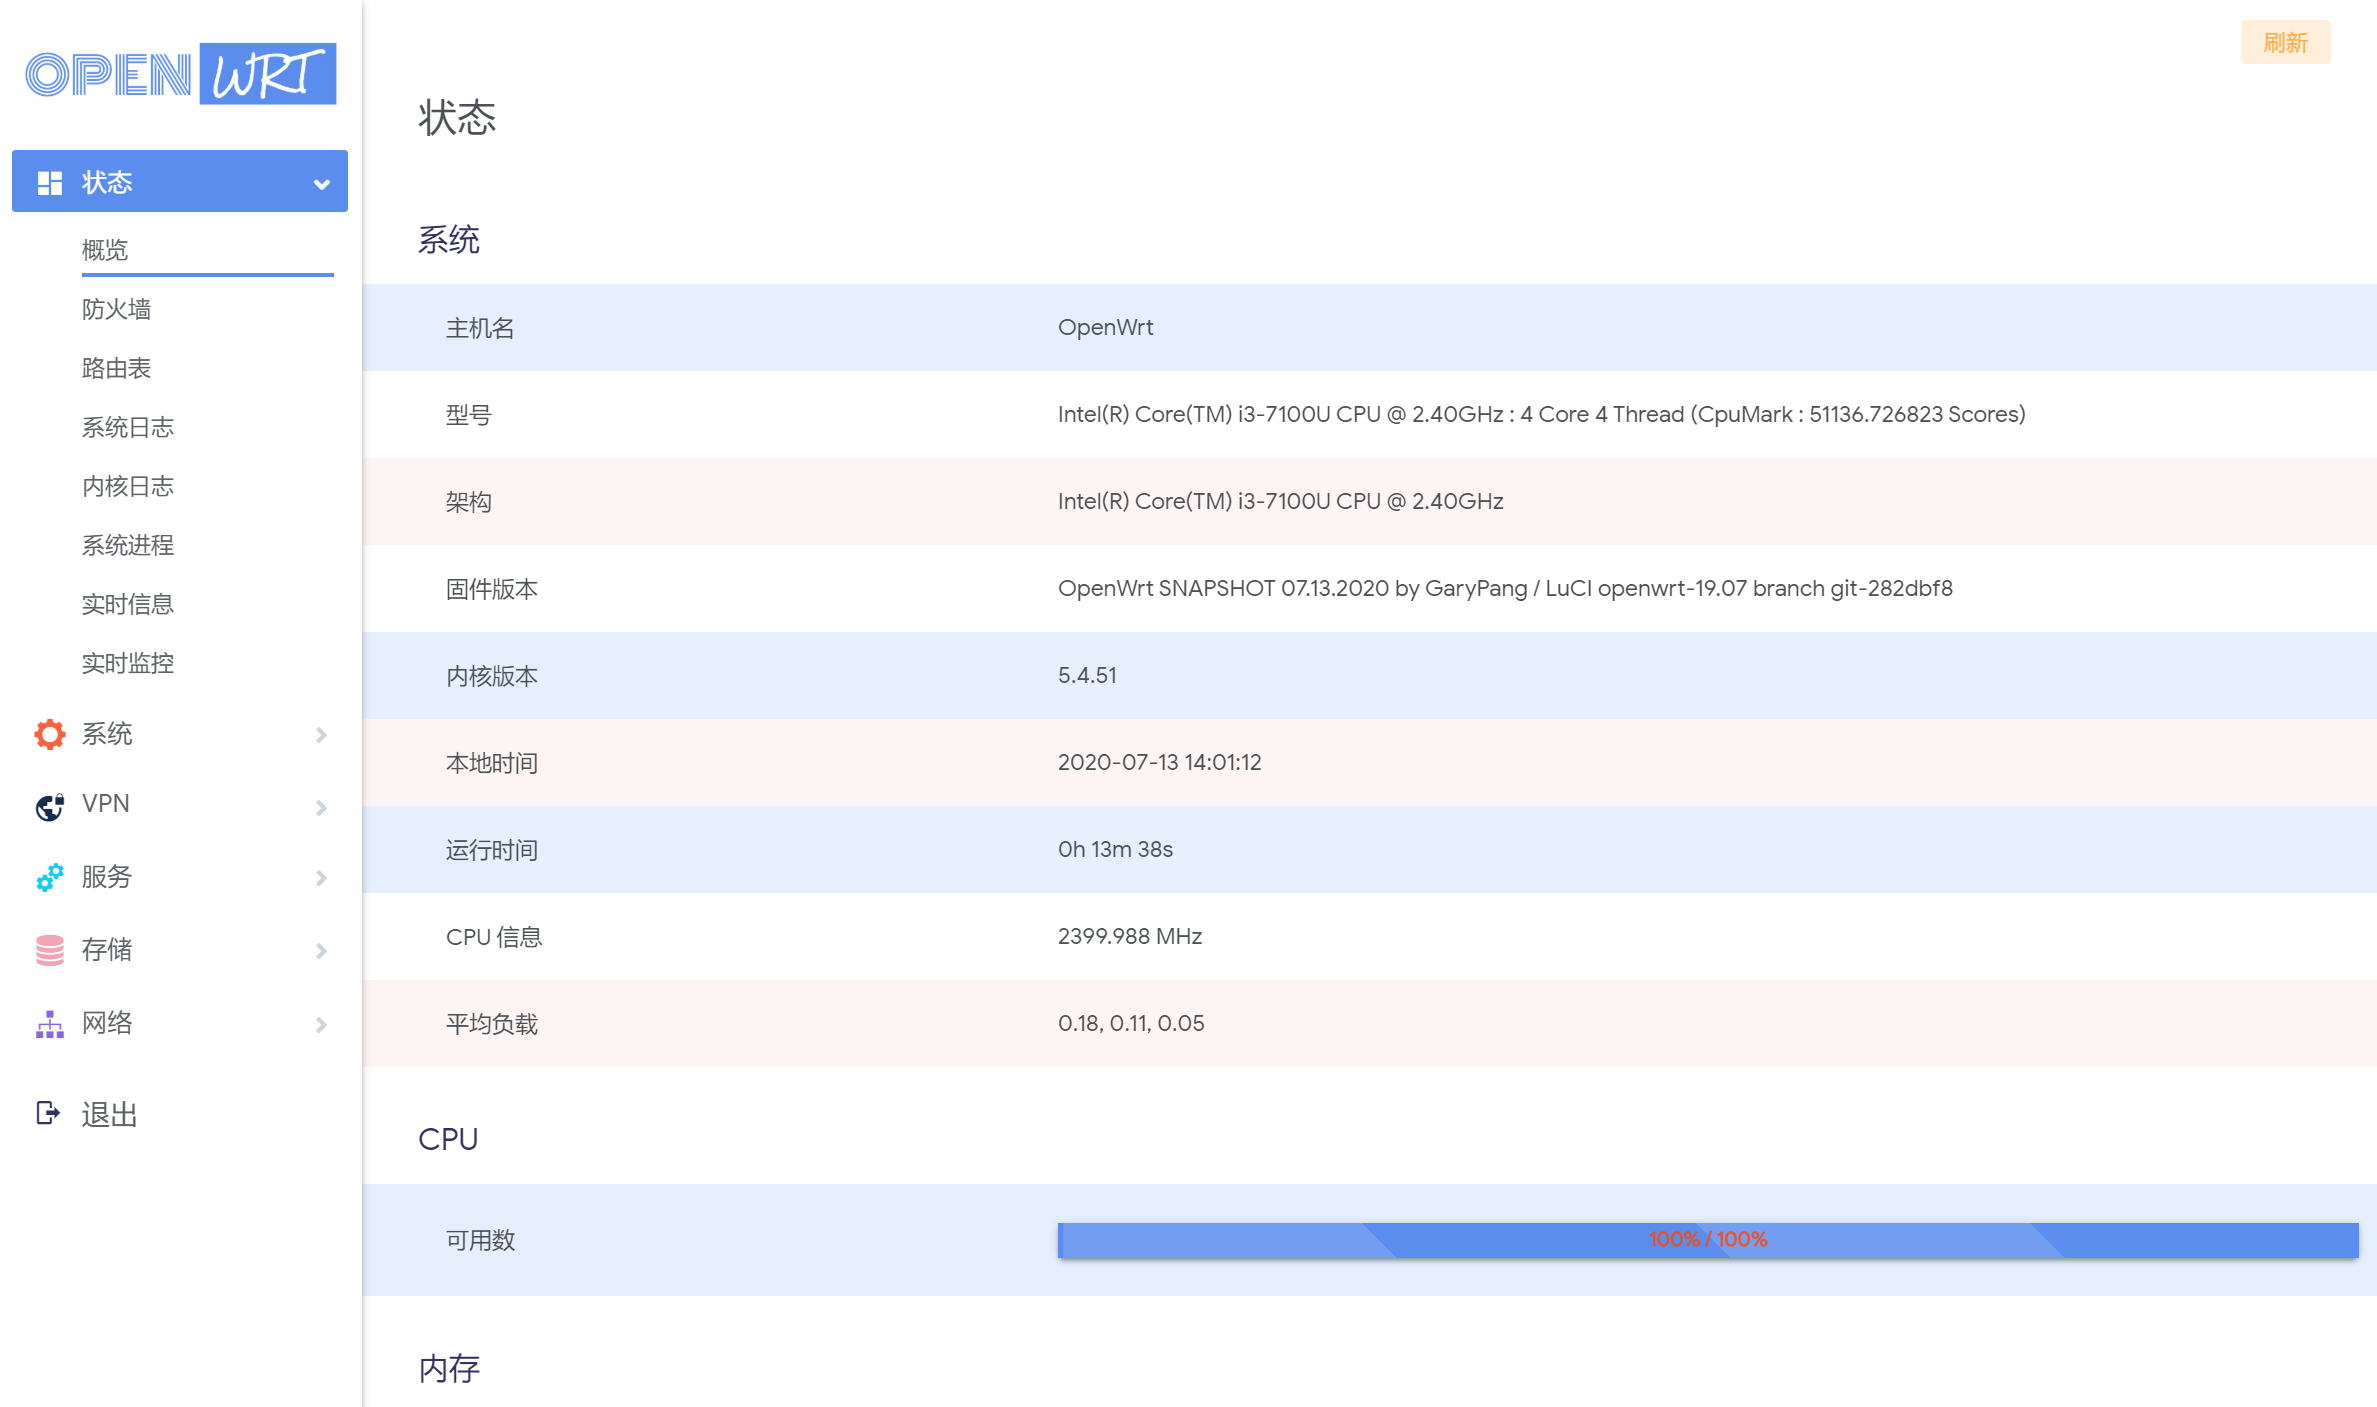
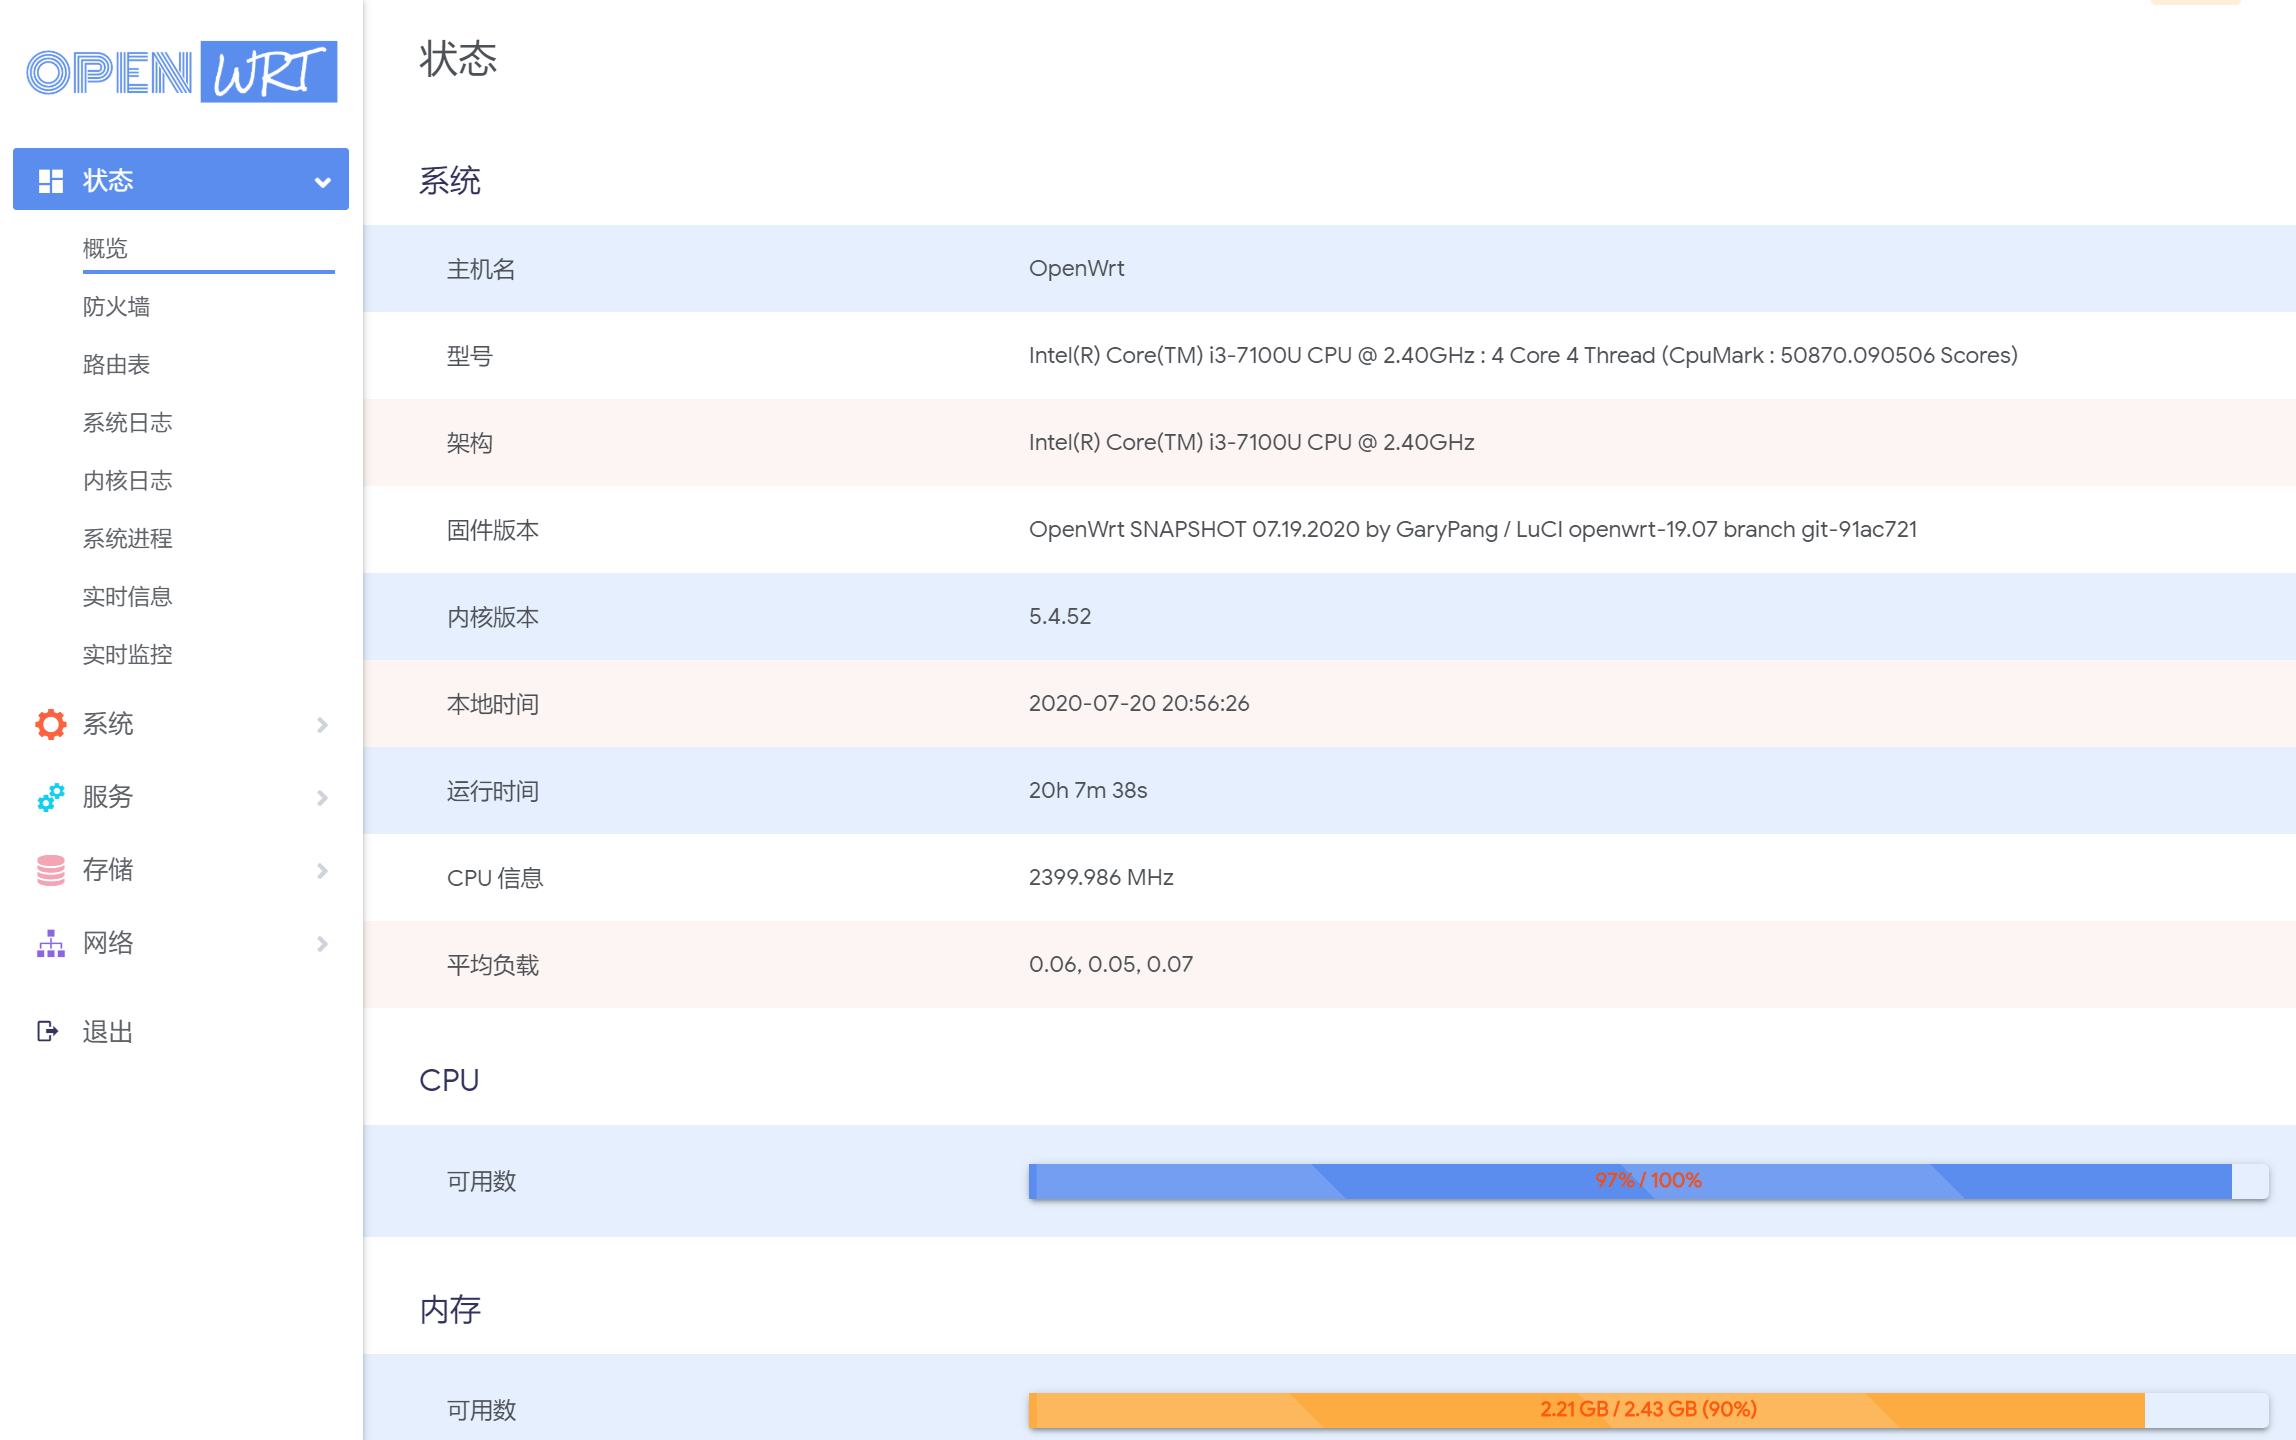
Update cascade.css

diff --git a/ctcgfw/luci-theme-edge/htdocs/luci-static/edge/cascade.css b/ctcgfw/luci-theme-edge/htdocs/luci-static/edge/cascade.css
@@ -388,6 +388,7 @@ body {
   margin: 0;
   padding: 0;
 background-color: #fff;
+overflow: hidden;
 }
 select {
   padding: 0.36rem 0.8rem;
@@ -421,7 +422,6 @@ input:not([type]), input[type=text]:not(.browser-default), input[type=password]:
     border-bottom: 1px solid #9e9e9e;
     border-radius: 0;
     outline: none;
-    width: 100%;
     margin: 0;
     padding: 0;
     -webkit-box-shadow: none;
@@ -619,7 +619,6 @@ p{
   position: relative;
   z-index: 50;
   margin-top: 2rem;
-  overflow:hidden;
 }
 .pull-right {
   float: right;
@@ -685,11 +684,18 @@ header .fill .status * {
 #xhr_poll_status * {
   color: #fff;
 }
+.modal.alert-message{
+  background-color: #5A8DEE;
+  color:#fff;	
+}
 .modal.alert-message p{
 	font-weight:bold;
-	color:#fff;
 	font-size:0.9rem;
 	text-align:center;
+}
+.modal .label.warning{
+    background-color: #FDAC41 !important;
+	color:#fff !important;
 }
 .danger {
   background-color: rgba(255, 91, 92, 0.2) !important;
@@ -699,14 +705,15 @@ header .fill .status * {
   background-color: rgba(253, 172, 65, 0.2) !important;
 	color:#FDAC41 !important;
 }
+.modal.warning {
+ color: #fff !important;
+	background-color:#FDAC41 !important;	
+}
 .success {
   background-color: rgba(57, 218, 138, 0.2) !important;
 	color:#39DA8A !important;
 }
-.notice {
-  background-color: #5A8DEE !important;
 
-}
 .error {
   color: #f00;
 }
@@ -1157,6 +1164,7 @@ tr > th,
 .cbi-section-table-row > .cbi-value-field .cbi-input-text,
 .cbi-section-table-row > .cbi-value-field .cbi-input-password {
   width: 100%;
+min-width:0 !important;
 }
 .cbi-section-table-row > .cbi-value-field [data-dynlist] > input,
 .cbi-section-table-row > .cbi-value-field input.cbi-input-password {
@@ -1165,32 +1173,29 @@ tr > th,
 .cbi-section-table-row .td {
   text-align: center !important;
 }
-div > table > tbody > tr,
+
+table > tbody > tr,
 div > .table > .tr {
-  background-color: #e5effd;
+	 background-color: #fff;
   transition: background-color .25s
-  
 }
-div > table > tbody > tr:hover,
-div > .table > .tr:hover {
+table > tbody > tr:nth-of-type(4n+2),
+div > .table > .tr:nth-of-type(4n+2) {
+background-color: #e5effd;
+}
+table > tbody > tr:nth-of-type(4n+2):hover,
+div > .table > .tr:nth-of-type(4n+2):hover {
   background-color: #d9e9ff;
 }
-div > table > tbody > tr:nth-of-type(2n),
-div > .table > .tr:nth-of-type(2n) {
- background-color: #fff;
+table > tbody > tr:nth-of-type(4n),
+div > .table > .tr:nth-of-type(4n) {
+  background-color: rgba(223, 56, 18, 0.04);
 }
-div > table > tbody > tr:nth-of-type(2n):hover,
-div > .table > .tr:nth-of-type(2n):hover {
- 
-}
-div > table > tbody > tr:nth-of-type(3n),
-div > .table > .tr:nth-of-type(3n) {
-  background-color: rgba(223, 56, 18, 0.05);
-}
-div > table > tbody > tr:nth-of-type(3n):hover,
-div > .table > .tr:nth-of-type(3n):hover {
+table > tbody > tr:nth-of-type(4n):hover,
+div > .table > .tr:nth-of-type(4n):hover {
   background-color: rgba(223, 56, 18, 0.09);
 }
+
 /* fix multiple table */
 table table,
 .table .table,
@@ -1211,6 +1216,7 @@ td > table > tbody > tr > td,
   width: auto !important;
   padding: 0 0.8rem;
   cursor: pointer;
+   white-space: nowrap;
   -webkit-user-select: none;
   -moz-user-select: none;
   -ms-user-select: none;
@@ -1218,7 +1224,6 @@ td > table > tbody > tr > td,
   transition: all 0.2s ease-in-out;
   text-align: center;
   vertical-align: middle;
-  white-space: nowrap;
   text-decoration: none;
   text-transform: uppercase;
   color: rgba(0, 0, 0, 0.87);
@@ -1271,6 +1276,7 @@ td > table > tbody > tr > td,
 .item:hover::after,
 .item:focus::after {
       opacity: 0.7;
+	top:0.15rem;
 }
 .btn:active,
 .cbi-button:active,
@@ -1512,11 +1518,11 @@ ul.tabs,.tabmenu .tabs,#tabmenu .tabs,ul.cbi-tabmenu{
 .cbi-value {
   display: inline-block;
   width: 100%;
-  padding: 0.35rem 1rem 0.2rem 1rem;
+  padding: 0.35rem 1rem 0.35rem 1rem;
   line-height: 2.4rem;
 }
 .cbi-value-field >*{
-	line-height: 2.2rem;
+	line-height: 1.3rem;
 }
 .cbi-value ul {
   line-height: 1.25;
@@ -1896,7 +1902,7 @@ body:not(.Interfaces) .cbi-rowstyle-2:first-child {
   flex-wrap: wrap;
   width: 90%;
   min-width: 270px;
-  max-width: 600px;
+  max-width: 695px;
   min-height: 32px;
   margin: 25vh auto;
   padding: 1em;
@@ -1945,17 +1951,14 @@ h3+p,h4+p{
   font-size: 0.6rem;
   font-weight: normal;
   padding: 0.1rem 0.3rem;
-  padding-bottom: 0;
   cursor: default;
   border-radius: 0;
+  background: #9b9b9b;
+    color: #fff;
 }
-.modal .label.warning {
-  background-color: #f0ad4e !important;
-}
-
-.modal.cbi-modal {
-  max-width: 90%;
-  max-height: none;
+.modal .label.notice{
+	color: #fff;
+    background: #5A8DEE;
 }
 body.modal-overlay-active {
   overflow: hidden;
@@ -2093,7 +2096,6 @@ textarea {
 #syslog {
   font-size: small;
   line-height: 1.25;
-  overflow-y: hidden;
   width: 100%;
   min-height: 15rem;
   padding: 1rem;
@@ -2396,6 +2398,7 @@ input[name="nslookup"] {
 .node-main-login .main .main-right {
   width: 100%;
   text-align:center;
+overflow: hidden;
 }
 .node-main-login .main .main-right header {
   background: none !important;
@@ -2427,7 +2430,6 @@ input[name="nslookup"] {
   background-color: transparent !important;
   text-align: center;
   display:inline-block;
-  position:relative;
   z-index:999;
 }
 .node-main-login .main .main-right #maincontent .container {
@@ -2857,6 +2859,9 @@ input[type="checkbox"] {
   padding: 0;
   cursor: pointer;
   transition: all 0.2s;
+      position: absolute;
+    opacity: 0;
+    pointer-events: none;
 
 }
 input[type="checkbox"]:checked {
@@ -3612,4 +3617,13 @@ h2,.cbi-map-descr{
 }
 .node-admin-status .table .tr .td:first-child{
 	padding-left:3rem !important;
+}
+ul.errors li{
+margin-bottom: 1rem;	
+}
+.Wireless .cbi-section{
+padding:0 2rem;
+}
+.cbi-section-table-row > .cbi-value-field .cbi-input-select {
+    min-width: 5rem !important;
 }

diff --git a/ctcgfw/luci-theme-edge/htdocs/luci-static/edge/js/script.js b/ctcgfw/luci-theme-edge/htdocs/luci-static/edge/js/script.js
@@ -222,7 +222,7 @@ document.addEventListener('luci-loaded', function(ev) {
 var config = {
     // How long Waves effect duration 
     // when it's clicked (in milliseconds)
-    duration: 1000
+    duration: 600
 };
     Waves.attach('.cbi-button,.btn', ['waves-light']);
 	// Ripple on hover
@@ -235,11 +235,14 @@ $('.cbi-button,.btn').mouseenter(function() {
 $(".waves-input-wrapper").filter(function () {
   return ($(this).children().is(":hidden"))
 }).hide();
-	$("select,input[type='text'],input[type='email'],input[type='url'],input[type='date'],input[type='datetime'],input[type='tel'],input[type='number'],input[type='search']").after("<span class='focus-input'></span>");
+
+$("select,input[type='text'],input[type='email'],input[type='url'],input[type='date'],input[type='datetime'],input[type='tel'],input[type='number'],input[type='search']").filter(function () {
+return (!$(this).parents(".cbi-dynlist").length)
+}).after("<span class='focus-input'></span>");
 
 $("input[type='checkbox']").filter(function () {
-  return ($(this).next("label").length)
-}).css({"position":"absolute","opacity":"0","pointer-events":"none"});
+  return (!$(this).next("label").length)
+}).css({"position":"relative","opacity":"1","pointer-events":"auto"});
 
 $("select,input").filter(function () {
   return ($(this).next(".focus-input").length)
@@ -249,5 +252,24 @@ $("select,input").filter(function () {
   $(this).css("border-bottom","1px solid #9e9e9e");
 });
 	}, 100);
+
+var options = { attributes: true};
+function callback() {
+$("select,input[type='text'],input[type='email'],input[type='url'],input[type='date'],input[type='datetime'],input[type='tel'],input[type='number'],input[type='search']").filter(function () {
+return (!$(this).parents(".cbi-dynlist").length)
+}).after("<span class='focus-input'></span>");
+$("select,input").filter(function () {
+  return ($(this).next(".focus-input").length)
+}).focus(function(){
+  $(this).css("border-bottom","1px solid #fff");
+}).blur(function(){
+  $(this).css("border-bottom","1px solid #9e9e9e");
+});
+$("input[type='checkbox']").filter(function () {
+  return (!$(this).next("label").length)
+}).css({"position":"relative","opacity":"1","pointer-events":"auto"});
+}
+var mutationObserver = new MutationObserver(callback);
+ mutationObserver.observe($("body")[0], options);
 })(jQuery);
 });

diff --git a/ctcgfw/luci-theme-edge/README.md b/ctcgfw/luci-theme-edge/README.md
@@ -14,13 +14,10 @@
 [![Issue Welcome][5]][6]
 [![Contact Me][10]][11]
 
-
+<a href="https://t.me/openwrt_nginx" target="_blank">Telegram</a>
 
 A new Luci theme for LEDE/OpenWRT  
 Edge is a clean HTML5 theme for LuCI. It is based on luci-theme-argon Template  
-
-## Notice
-Cant't adapt to luci 18.06.  
 
 ## Thanks to 
 luci-theme-argon: https://github.com/jerrykuku/luci-theme-argon
